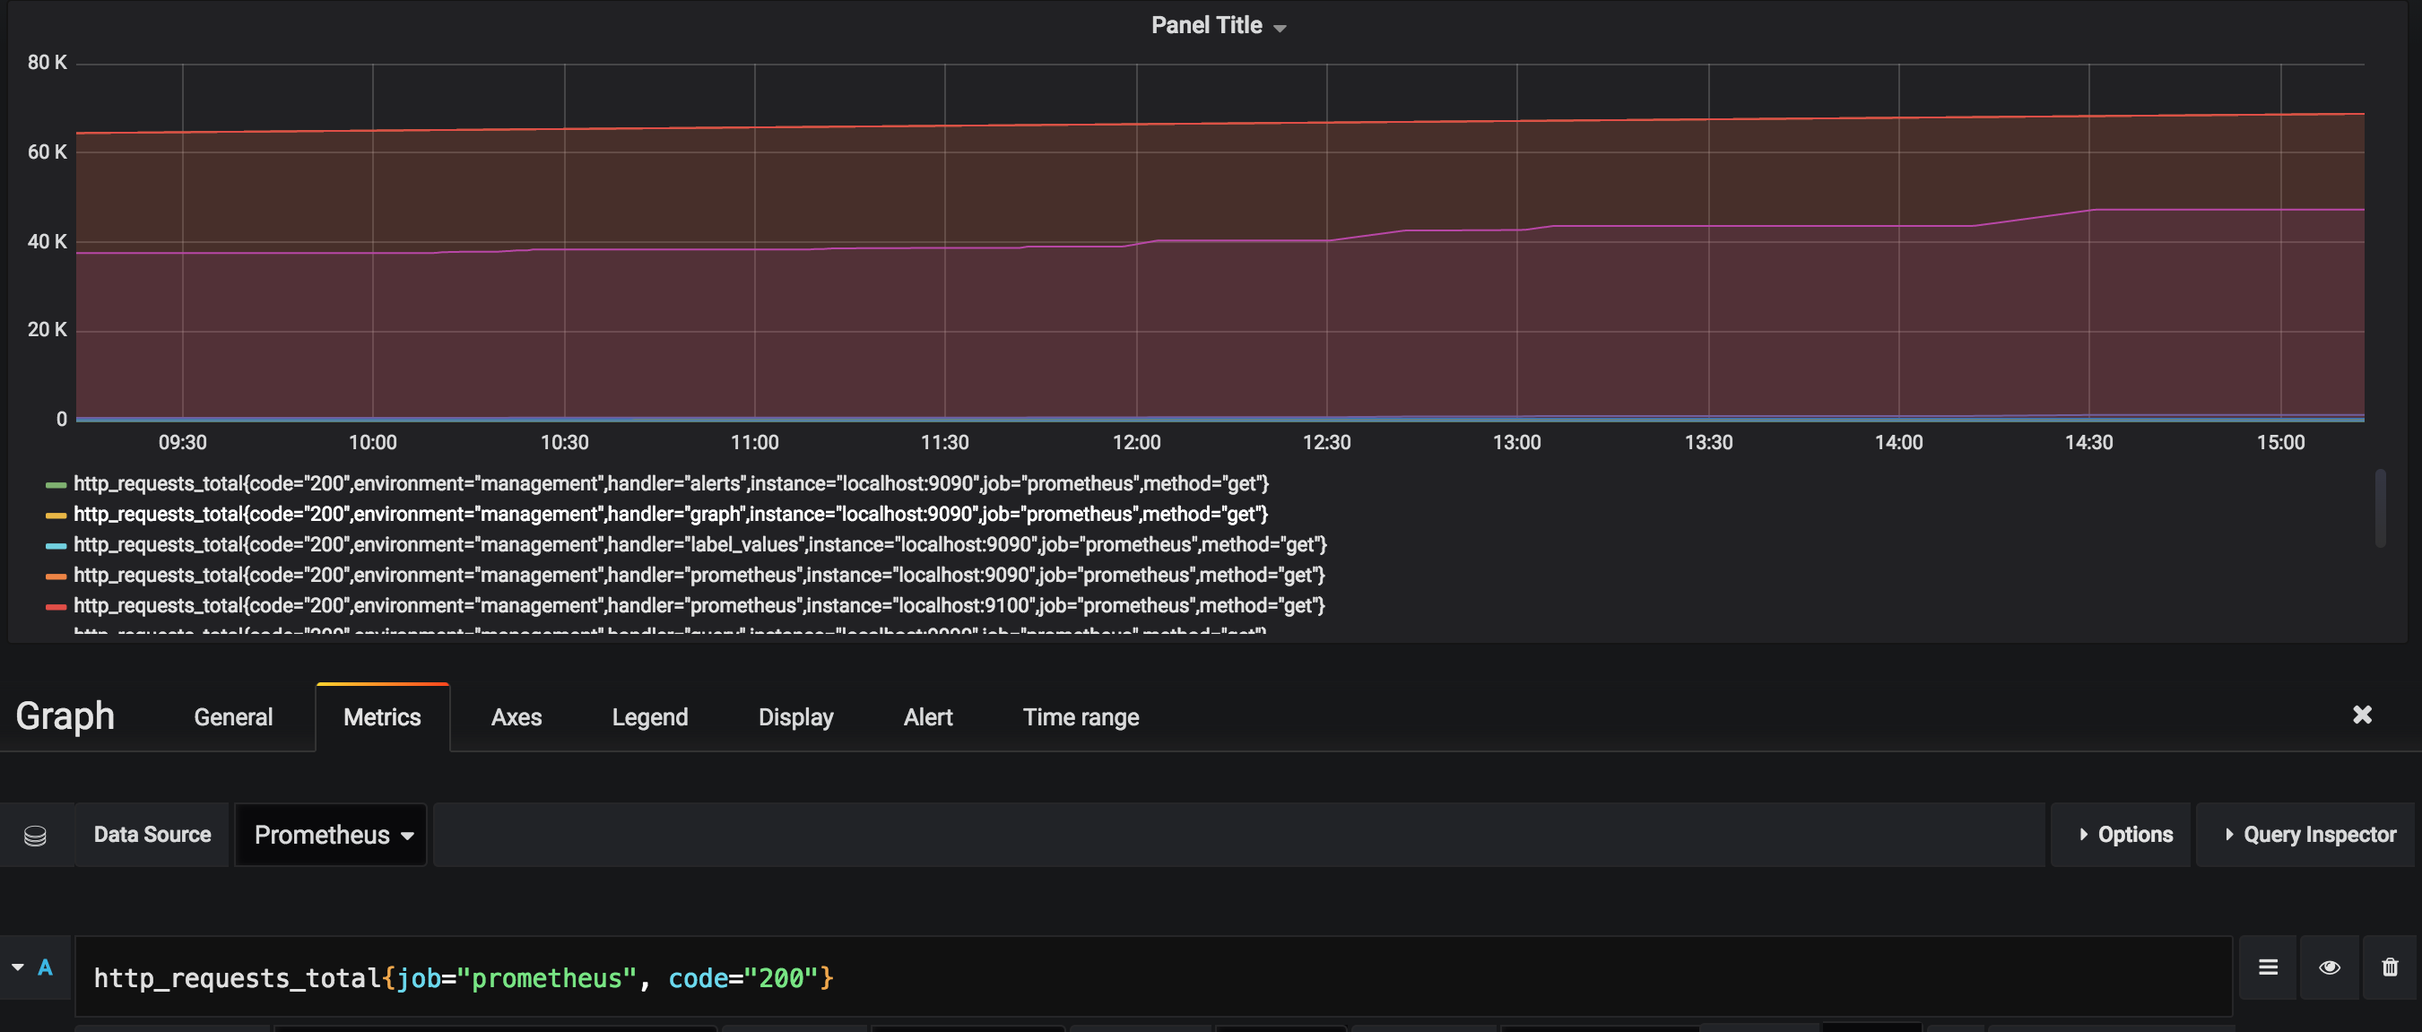
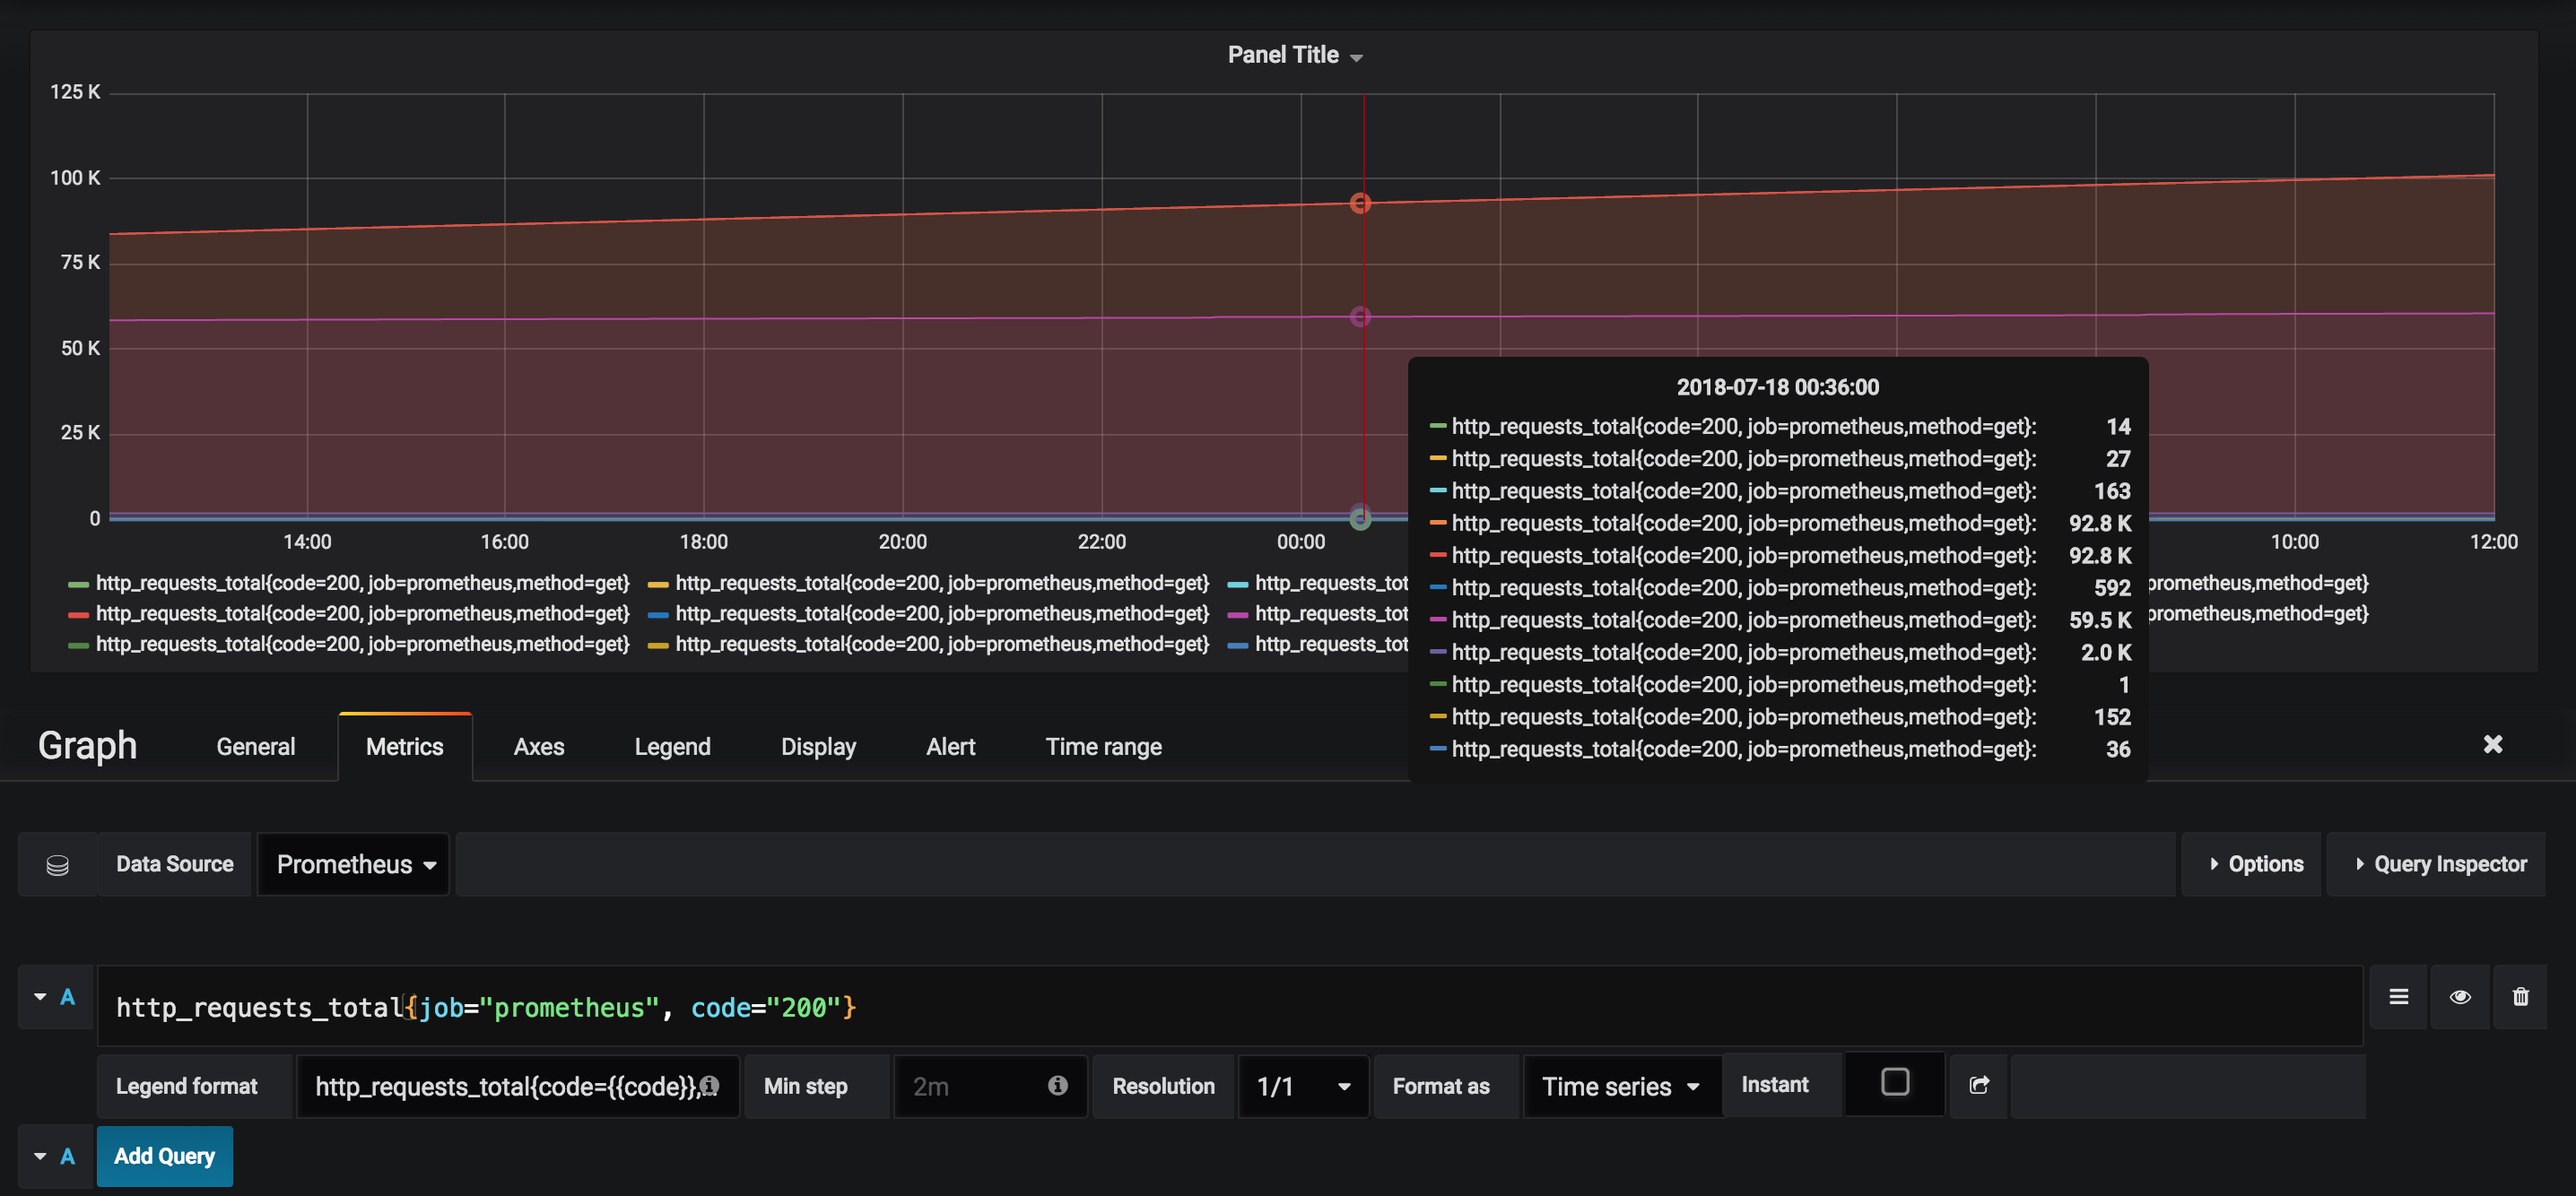
updated pictures

diff --git a/posts/promql-guide.md b/posts/promql-guide.md
@@ -10,6 +10,8 @@ _Only Instant Vectors can be graphed._
 
 `http_requests_total`
 
+_Disclaimer_: We've hidden some of the information in the pictures using the `Legend Format` for privacy reasons.
+
 ![](./images/promql-guide/http_requests_total.png)
 
 This gives us all the http requests, but we've got 2 issues.
@@ -105,12 +107,12 @@ There are Arithmetic (+, -, \*, /, %, ^), Comparison (==, !=, >, <, >=, <=) and 
 
 Vectors are equal i.f.f. the labels are equal.
 
-API 5xxs have increased by 20% over the past 5m
-`rate(http_requests_total{status_code=~"5.*"}[5m]) > .2 * rate(http_requests_total[5m])`
+API 5xxs are 10% of HTTP Requests
+`rate(http_requests_total{status_code=~"5.*"}[5m]) > .1 * rate(http_requests_total[5m])`
 
 ![](./images/promql-guide/api5xx.png)
 
-We're looking to graph whenever more than 20% of an instance's HTTP requests are errors. Before comparing rates, PromQL first checks to make sure that the vector's labels are equal.
+We're looking to graph whenever more than 10% of an instance's HTTP requests are errors. Before comparing rates, PromQL first checks to make sure that the vector's labels are equal.
 
 You can use `on` to compare using certain labels or `ignoring` to compare on all labels except.
 
